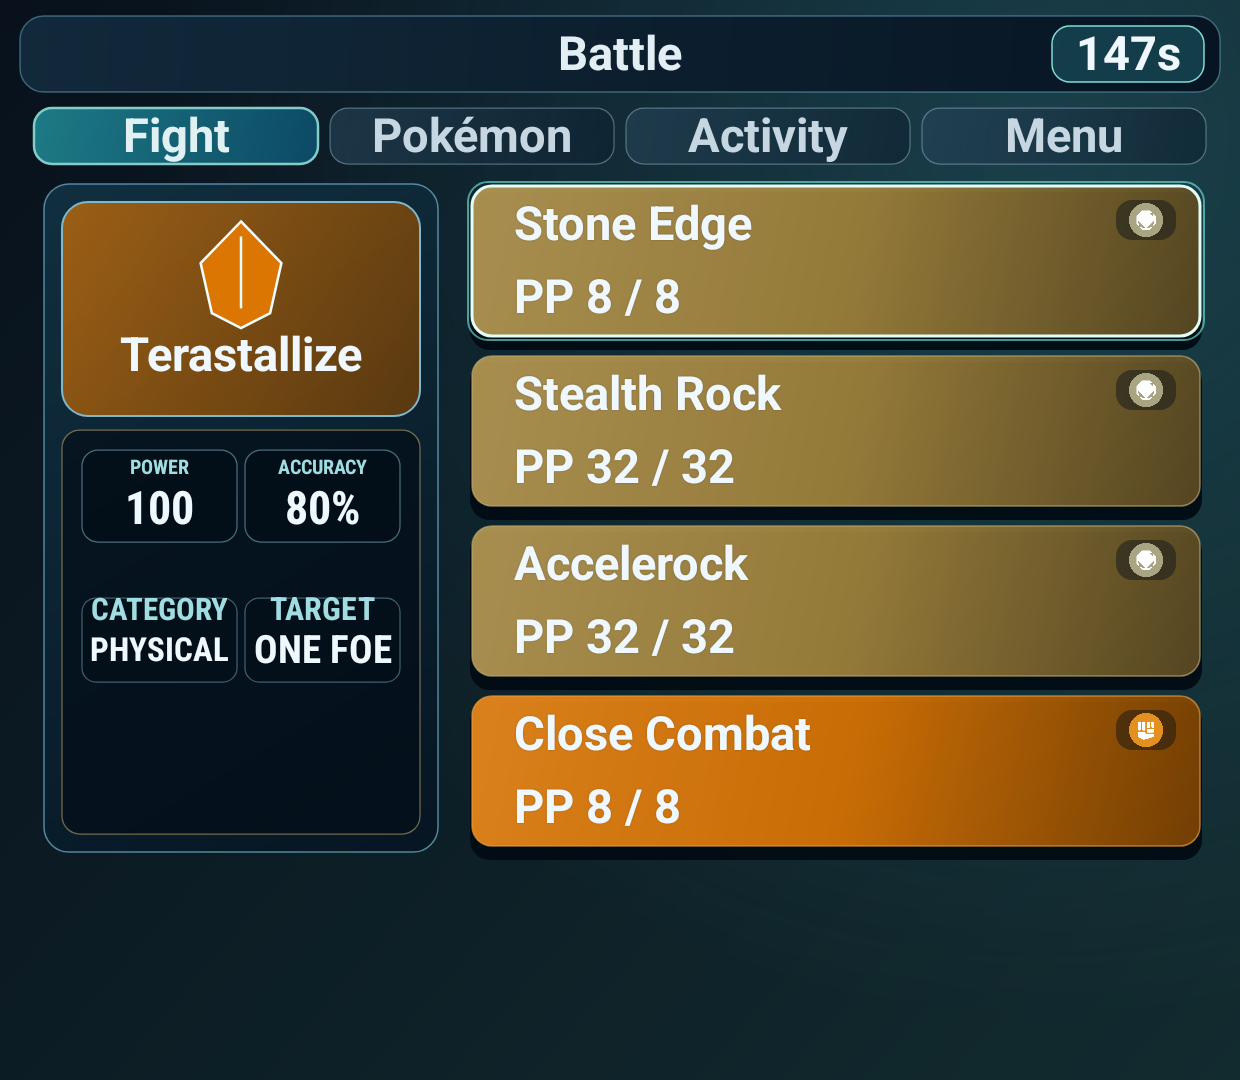
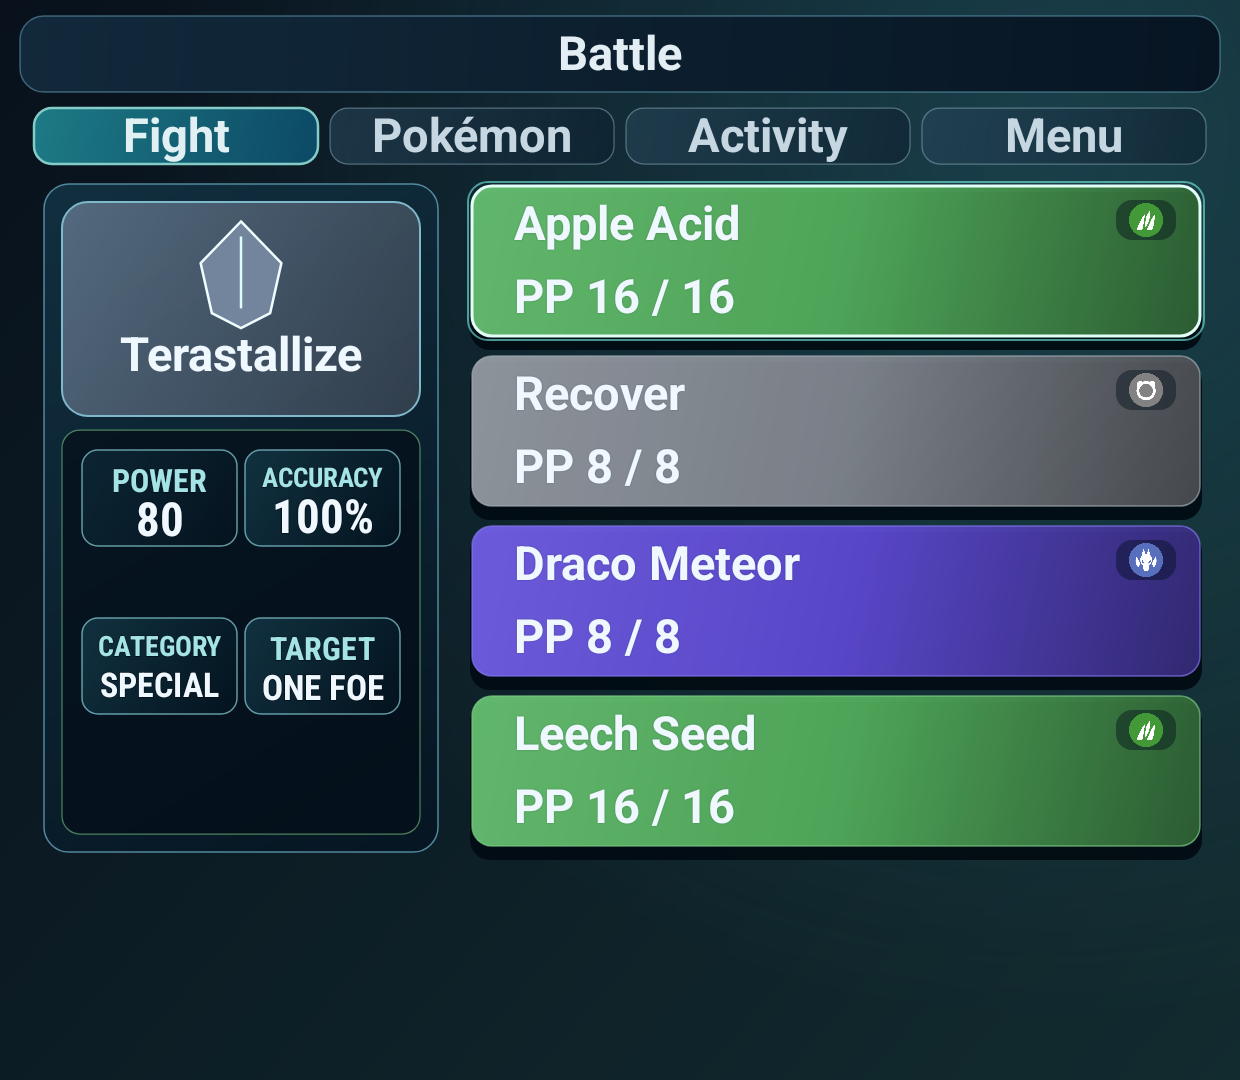
feat: polish battle details and Thor renderer

diff --git a/app/src/main/kotlin/dev/adrian/showdown/CommandDeckView.kt b/app/src/main/kotlin/dev/adrian/showdown/CommandDeckView.kt
@@ -457,23 +457,22 @@ class CommandDeckView(
             return
         }
         var sectionTop = detailContent.top
-        val metricHeight = if (compact) 92f * scale else 112f * scale
+        val infoCellHeight = if (compact) 96f * scale else 112f * scale
         drawMoveMetrics(
             canvas,
-            RectF(detailContent.left, sectionTop, detailContent.right, sectionTop + metricHeight),
+            RectF(detailContent.left, sectionTop, detailContent.right, sectionTop + infoCellHeight),
             move,
             scale
         )
-        val metricToContextGap = if (compact) 56f * scale else 64f * scale
-        sectionTop += metricHeight + metricToContextGap
-        val contextHeight = if (compact) 84f * scale else 96f * scale
+        val metricToContextGap = if (compact) 72f * scale else 80f * scale
+        sectionTop += infoCellHeight + metricToContextGap
         drawMoveContext(
             canvas,
-            RectF(detailContent.left, sectionTop, detailContent.right, minOf(detailContent.bottom, sectionTop + contextHeight)),
+            RectF(detailContent.left, sectionTop, detailContent.right, minOf(detailContent.bottom, sectionTop + infoCellHeight)),
             move,
             scale
         )
-        sectionTop += contextHeight + if (compact) 8f * scale else 12f * scale
+        sectionTop += infoCellHeight + if (compact) 8f * scale else 12f * scale
         if (!compact) drawEffectSummary(canvas, detailContent, scale, sectionTop)
         if (move.disabled) {
             paint.typeface = android.graphics.Typeface.create("sans-serif", android.graphics.Typeface.BOLD)
@@ -516,48 +515,7 @@ class CommandDeckView(
     }
 
     private fun drawMoveMetricCell(canvas: Canvas, bounds: RectF, label: String, value: String, scale: Float) {
-        paint.style = Paint.Style.FILL
-        paint.color = Color.argb(178, 2, 13, 22)
-        canvas.drawRoundRect(bounds, 16f * scale, 16f * scale, paint)
-        paint.style = Paint.Style.STROKE
-        paint.strokeWidth = 1.25f * scale
-        paint.color = Color.argb(130, 141, 196, 211)
-        canvas.drawRoundRect(bounds, 16f * scale, 16f * scale, paint)
-        paint.style = Paint.Style.FILL
-        paint.textAlign = Paint.Align.CENTER
-        paint.typeface = android.graphics.Typeface.create("sans-serif-condensed", android.graphics.Typeface.BOLD)
-        val labelInset = 16f * scale
-        val labelWidth = bounds.width() - labelInset * 2f
-        val labelSize = readableTextSize(18f, scale, 14f, 12f).coerceAtMost(bounds.height() * 0.22f)
-        paint.textSize = fittedTextSize(label, labelWidth, labelSize, 12f * scale)
-        paint.color = Color.rgb(159, 221, 226)
-        drawOutlinedText(
-            canvas,
-            label,
-            bounds.centerX(),
-            bounds.top + 24f * scale,
-            Color.rgb(3, 14, 22),
-            Color.rgb(159, 221, 226),
-            1.25f * scale
-        )
-        val valueWidth = bounds.width() - 24f * scale
-        paint.textSize = fittedTextSize(
-            value,
-            valueWidth,
-            readableTextSize(38f, scale, 32f, 22f).coerceAtMost(bounds.height() * 0.5f),
-            22f * scale
-        )
-        paint.color = PAPER
-        drawOutlinedText(
-            canvas,
-            value,
-            bounds.centerX(),
-            centeredTextBaseline(bounds.centerY() + 12f * scale),
-            Color.rgb(3, 14, 22),
-            PAPER,
-            1.75f * scale
-        )
-        paint.textAlign = Paint.Align.LEFT
+        drawMoveInfoCell(canvas, bounds, label, value, scale)
     }
 
     private fun drawMoveContext(canvas: Canvas, bounds: RectF, move: BattleSession.MoveOption, scale: Float) {
@@ -581,35 +539,70 @@ class CommandDeckView(
     }
 
     private fun drawMoveContextCell(canvas: Canvas, bounds: RectF, label: String, value: String, scale: Float) {
+        drawMoveInfoCell(canvas, bounds, label, value, scale)
+    }
+
+    private fun drawMoveInfoCell(canvas: Canvas, bounds: RectF, label: String, value: String, scale: Float) {
         paint.style = Paint.Style.FILL
-        paint.color = Color.argb(142, 2, 13, 22)
-        canvas.drawRoundRect(bounds, 14f * scale, 14f * scale, paint)
+        paint.shader = LinearGradient(
+            bounds.left,
+            bounds.top,
+            bounds.right,
+            bounds.bottom,
+            Color.argb(214, 19, 55, 70),
+            Color.argb(184, 3, 19, 31),
+            Shader.TileMode.CLAMP
+        )
+        canvas.drawRoundRect(bounds, 16f * scale, 16f * scale, paint)
+        paint.shader = null
         paint.style = Paint.Style.STROKE
-        paint.strokeWidth = 1.25f * scale
-        paint.color = Color.argb(112, 141, 196, 211)
-        canvas.drawRoundRect(bounds, 14f * scale, 14f * scale, paint)
+        paint.strokeWidth = 1.5f * scale
+        paint.color = Color.argb(178, 141, 211, 220)
+        canvas.drawRoundRect(bounds, 16f * scale, 16f * scale, paint)
         paint.style = Paint.Style.FILL
         paint.textAlign = Paint.Align.CENTER
         paint.typeface = android.graphics.Typeface.create("sans-serif-condensed", android.graphics.Typeface.BOLD)
-        paint.textSize = fittedTextSize(label, bounds.width() - 16f * scale, readableTextSize(16f, scale, 13f, 11f), 11f * scale)
+
+        val horizontalPadding = 16f * scale
+        val verticalPadding = 12f * scale
+        val contentTop = bounds.top + verticalPadding
+        val contentBottom = bounds.bottom - verticalPadding
+        val contentWidth = bounds.width() - horizontalPadding * 2f
+        val labelSize = fittedTextSize(
+            label,
+            contentWidth,
+            readableTextSize(17f, scale, 14f, 12f),
+            12f * scale
+        )
+        paint.textSize = labelSize
+        val labelBaseline = contentTop - paint.ascent()
         drawOutlinedText(
             canvas,
             label,
             bounds.centerX(),
-            bounds.top + 22f * scale,
+            labelBaseline,
             Color.rgb(3, 14, 22),
-            Color.rgb(159, 221, 226),
-            1.1f * scale
+            Color.rgb(164, 228, 231),
+            1.25f * scale
         )
-        paint.textSize = fittedTextSize(value, bounds.width() - 16f * scale, readableTextSize(22f, scale, 18f, 15f), 14f * scale)
+
+        val valueAreaTop = labelBaseline + paint.descent() + 6f * scale
+        val valueCenter = (valueAreaTop + contentBottom) / 2f
+        val valueSize = fittedTextSize(
+            value,
+            contentWidth,
+            readableTextSize(29f, scale, 22f, 18f),
+            18f * scale
+        )
+        paint.textSize = valueSize
         drawOutlinedText(
             canvas,
             value,
             bounds.centerX(),
-            centeredTextBaseline(bounds.centerY() + 10f * scale),
+            centeredTextBaseline(valueCenter),
             Color.rgb(3, 14, 22),
             PAPER,
-            1.35f * scale
+            1.5f * scale
         )
         paint.textAlign = Paint.Align.LEFT
     }

diff --git a/README.md b/README.md
@@ -31,6 +31,8 @@ adb install -r app/build/outputs/apk/debug/app-debug.apk
 
 Set `AYN_THOR_VSYNC_RATE=120` when validating the upper display at its target refresh rate.
 
+The APK uses Android Canvas and WebView, so it does not have separate OpenGL and Vulkan APKs. The AVD launcher defaults to `AYN_THOR_GPU_MODE=auto`, which selects the best available renderer. Use `AYN_THOR_GPU_MODE=lavapipe` to force the Vulkan software path, `host` to use the host GPU, or `swiftshader` for software GLES/Vulkan rendering.
+
 ## Support the project
 
 If this client is useful to you, [sponsor the project on GitHub](https://github.com/sponsors/castdrian) or [support it on Ko-fi](https://ko-fi.com/castdrian).
